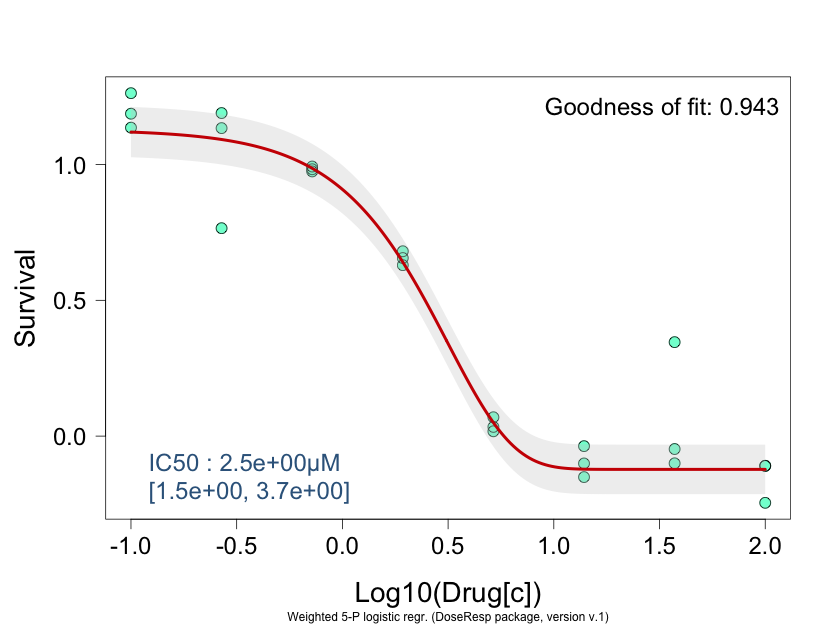
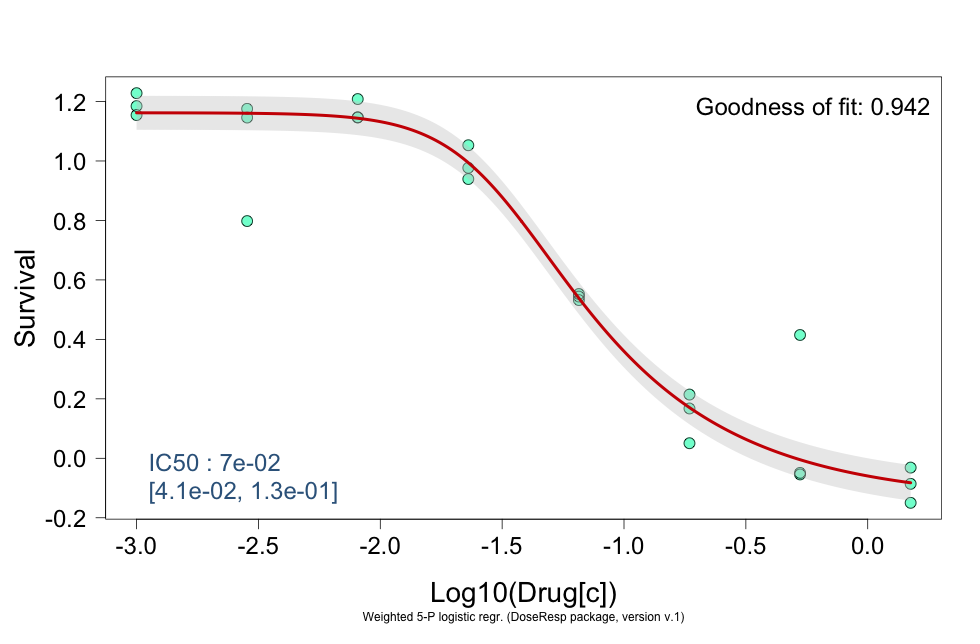
fixed bugs - new function name - predict method

diff --git a/README.md b/README.md
@@ -21,15 +21,47 @@ Rlist <- getFilesList(git, '[^Demo].R$')
 sourceRepoFile(git, Rlist)
 ```
 ```
-x <- rep(seq(-1, 2, len=8), 3)
-bottom=-0.1; top=1.2; xmid=(min(x) + max(x))/2; scal=-1.75; s=1.8
+# demo1: no replicate
+set.seed(12345)
+bottom=0; top=1; xmid=(min(x) + max(x))/2; scal=-1; s=1
+x <- seq(log10(1e-3), log10(1.5), len=8)
+y <- .PL5(bottom, top, xmid, scal, s, x) + rnorm(length(x), 0, .05)
 
-y <- .PL5(bottom, top, xmid, scal, s, x) + rnorm(length(x), 0, .075)
-y[2]<- y[2]*.65; y[7]<- y[7] + .4
-
-# Use the default weights method (method="sdw") if there are replicates. Use method="res", otherwise.
-test <- model5P(x, y)
+test <- Logistic(x, y)
 test
 plot(test)
 getEstimates(test)
+getPar(test)
+```
+
+```
+# demo2: with replicates and outliers
+set.seed(12345)
+bottom=-0.1; top=1.2; xmid=(min(x) + max(x))/2; scal=-1.75; s=0.6
+x <- rep(seq(log10(1e-3), log10(1.5), len=8), 3)
+
+y <- .PL5(bottom, top, xmid, scal, s, x) + rnorm(length(x), 0, .05)    # add noise
+y[2]<- y[2]*.65; y[7]<- y[7] + .4   # add outliers
+
+test <- Logistic(x, y)
+test
+plot(test)
+getEstimates(test)
+getPar(test)
+```
+
+```
+# demo3: proliferation curve (positive slope)
+set.seed(12346)
+x <- rep(seq(1, 10, len=8), 3)
+bottom=1; top=100; xmid=(min(x) + max(x))/2; scal=.5; s=.7
+
+y <- .PL5(bottom, top, xmid, scal, s, x) + rnorm(length(x), 5, 3)
+
+test <- Logistic(x, y, isProp=FALSE, isLog=FALSE)
+test
+plot(test)
+predict(test, .25)
+getEstimates(test)
+getPar(test)
 ```
